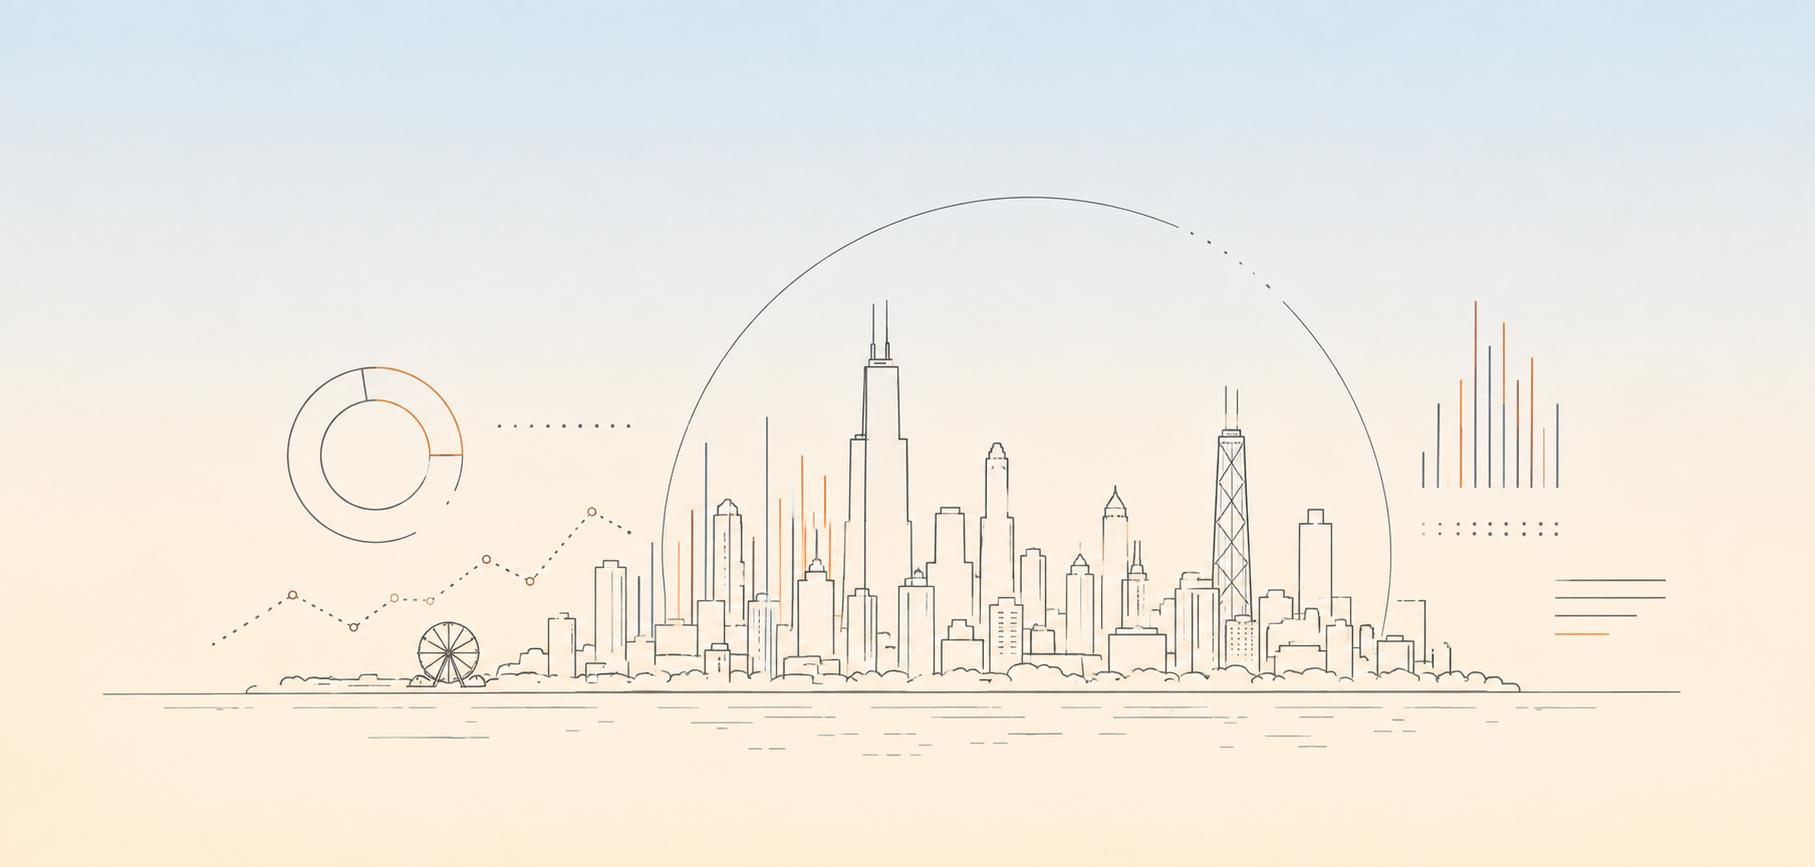
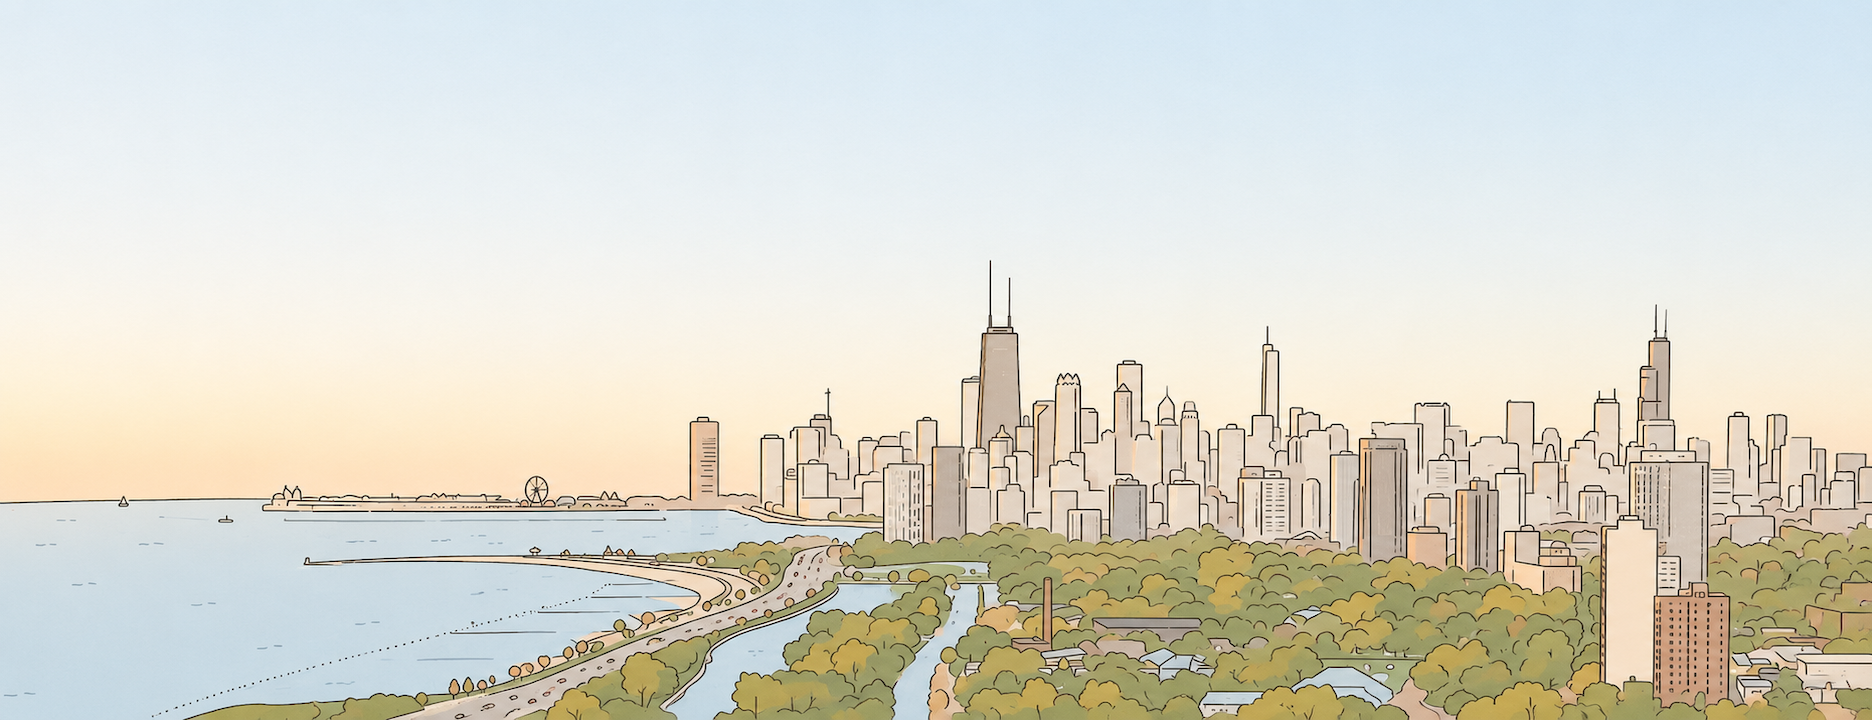
Landing name card: four bullets + contact strip, original single frame
Restore point before hero headline / bullet grid / contact strip tweaks.

diff --git a/src/pages/Landing.jsx b/src/pages/Landing.jsx
@@ -166,7 +166,10 @@ export default function Landing() {
         </div>
       </section>
 
-      {/* 2. Name card overlapping into the lower third of the hero photo. */}
+      {/* 2. Name card overlapping into the lower third of the hero photo.
+          Double violet frame, translucent so the skyline fade shows through.
+          The original single-frame card is preserved in NameCardOld.jsx and in
+          git (commit before this redesign) for a clean rollback. */}
       <div className="relative z-20 mx-auto -mt-[120px] max-w-content px-6 sm:-mt-[136px] lg:-mt-40 md:px-8">
         <motion.div
           initial={{ opacity: 0, y: 24 }}
@@ -193,11 +196,12 @@ export default function Landing() {
             />
           </div>
           <div>
-            <ul className="max-w-xl space-y-1 text-sm leading-snug text-ink-secondary">
+            <ul className="max-w-xl space-y-1 text-sm leading-snug text-[#3B3650]">
               {[
-                'A marketing and business analyst who bridges narrative and numbers',
-                'A problem solver who finds clarity and scalable solutions in complex situations',
-                'A lifelong learner and adventurer',
+                'Business analyst who bridges narrative and numbers',
+                'Problem solver who finds scalable solutions in complexity',
+                'AI powered architect of end-to-end workflows',
+                'Lifelong learner and adventurer',
               ].map((point) => (
                 <li key={point} className="flex gap-2.5">
                   <span
@@ -220,6 +224,34 @@ export default function Landing() {
           </div>
           </div>
         </motion.div>
+
+        {/* Contact strip: slim centered row below the card, outside the frame. */}
+        <div className="mt-5 flex flex-wrap items-center justify-center gap-x-8 gap-y-2 text-[13.5px]">
+          <span>
+            <span className="font-semibold text-violet">email</span>{' '}
+            <a
+              href="mailto:annieshan2026@u.northwestern.edu"
+              className="text-ink-secondary no-underline transition-colors hover:text-violet"
+            >
+              annieshan2026@u.northwestern.edu
+            </a>
+          </span>
+          <span>
+            <span className="font-semibold text-violet">linkedin</span>{' '}
+            <a
+              href="https://www.linkedin.com/in/annie-shan-1234b4257/"
+              target="_blank"
+              rel="noreferrer"
+              className="text-ink-secondary no-underline transition-colors hover:text-violet"
+            >
+              LinkedIn
+            </a>
+          </span>
+          <span>
+            <span className="font-semibold text-violet">phone</span>{' '}
+            <span className="text-ink-secondary">+1 (347) 226 0388</span>
+          </span>
+        </div>
       </div>
 
       {/* 3. About paragraph. */}

diff --git a/src/components/NameCardOld.jsx b/src/components/NameCardOld.jsx
@@ -1,0 +1,66 @@
+import { motion } from 'framer-motion'
+import Button from './Button.jsx'
+import SmartImage from './SmartImage.jsx'
+
+// PRESERVED original landing name card (single violet frame, grey status,
+// three bullets). Kept as a clean rollback for the double-frame redesign.
+// Not currently rendered; to revert, drop this back into Landing.jsx section 2
+// in place of the new <NameCard/>.
+export default function NameCardOld() {
+  return (
+    <div className="relative z-20 mx-auto -mt-[120px] max-w-content px-6 sm:-mt-[136px] lg:-mt-40 md:px-8">
+      <motion.div
+        initial={{ opacity: 0, y: 24 }}
+        animate={{ opacity: 1, y: 0 }}
+        transition={{ duration: 0.5, ease: 'easeOut', delay: 0.35 }}
+        className="rounded-2xl border border-violet/15 bg-white p-6 shadow-[0_20px_60px_-30px_rgba(74,63,143,0.4)] md:p-8"
+      >
+        {/* Name header across the top of the card. */}
+        <div className="flex flex-wrap items-center gap-2">
+          <h2 className="font-serif text-2xl text-ink">Annie (Xinhui) Shan</h2>
+          <span className="h-1.5 w-1.5 rounded-full bg-violet" aria-hidden="true" />
+          <span className="text-sm text-ink-muted">based in chicago · open to work</span>
+        </div>
+
+        {/* Headshot on the left, bullets and buttons top-aligned beside it. */}
+        <div className="mt-5 grid gap-6 md:grid-cols-[auto_1fr] md:items-start md:gap-8">
+          <div className="w-32 shrink-0">
+            <SmartImage
+              src="/images/headshot.jpg"
+              alt="Annie Shan"
+              label="headshot"
+              ratio="aspect-square"
+              rounded="rounded-2xl"
+            />
+          </div>
+          <div>
+            <ul className="max-w-xl space-y-1 text-sm leading-snug text-ink-secondary">
+              {[
+                'A marketing and business analyst who bridges narrative and numbers',
+                'A problem solver who finds clarity and scalable solutions in complex situations',
+                'A lifelong learner and adventurer',
+              ].map((point) => (
+                <li key={point} className="flex gap-2.5">
+                  <span
+                    className="mt-1.5 h-1.5 w-1.5 shrink-0 rounded-full bg-violet"
+                    aria-hidden="true"
+                  />
+                  <span>{point}</span>
+                </li>
+              ))}
+            </ul>
+            <div className="mt-4 flex flex-wrap gap-3">
+              <Button to="/resume">resume</Button>
+              <Button to="/data" variant="outline">
+                data work
+              </Button>
+              <Button to="/marketing" variant="outline">
+                marketing
+              </Button>
+            </div>
+          </div>
+        </div>
+      </motion.div>
+    </div>
+  )
+}
